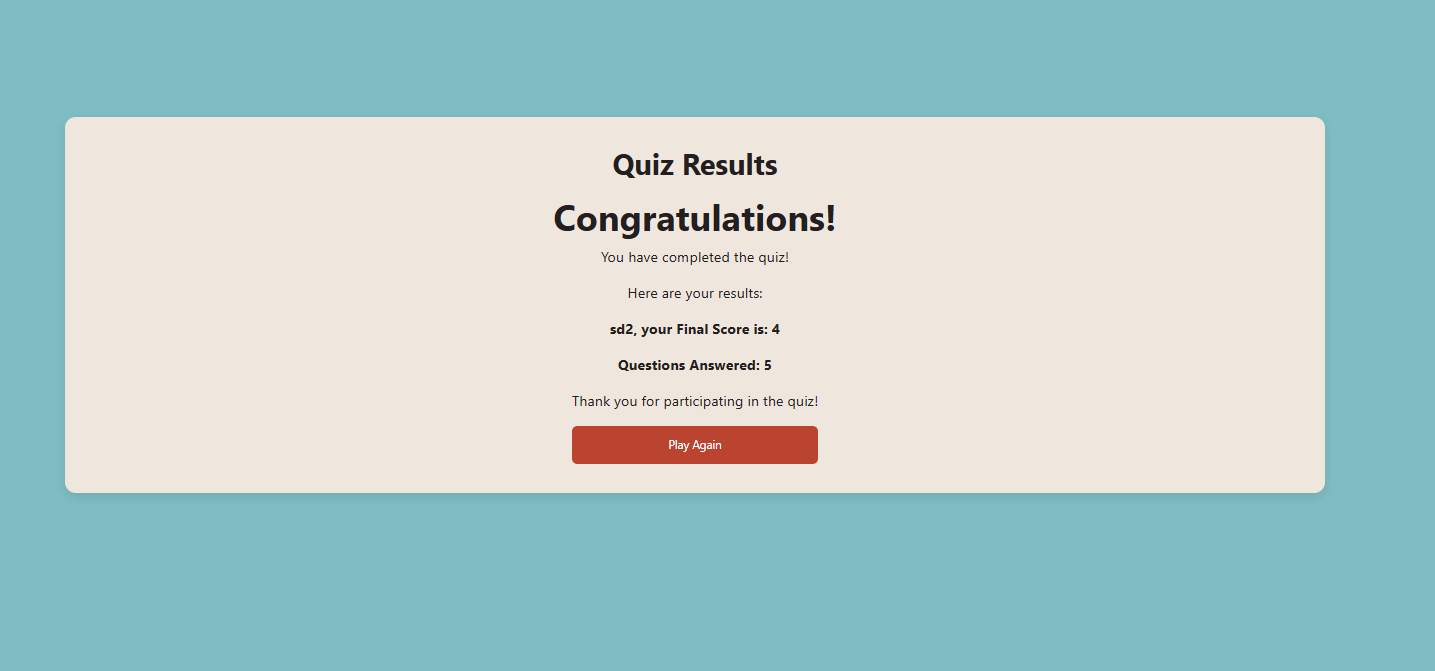
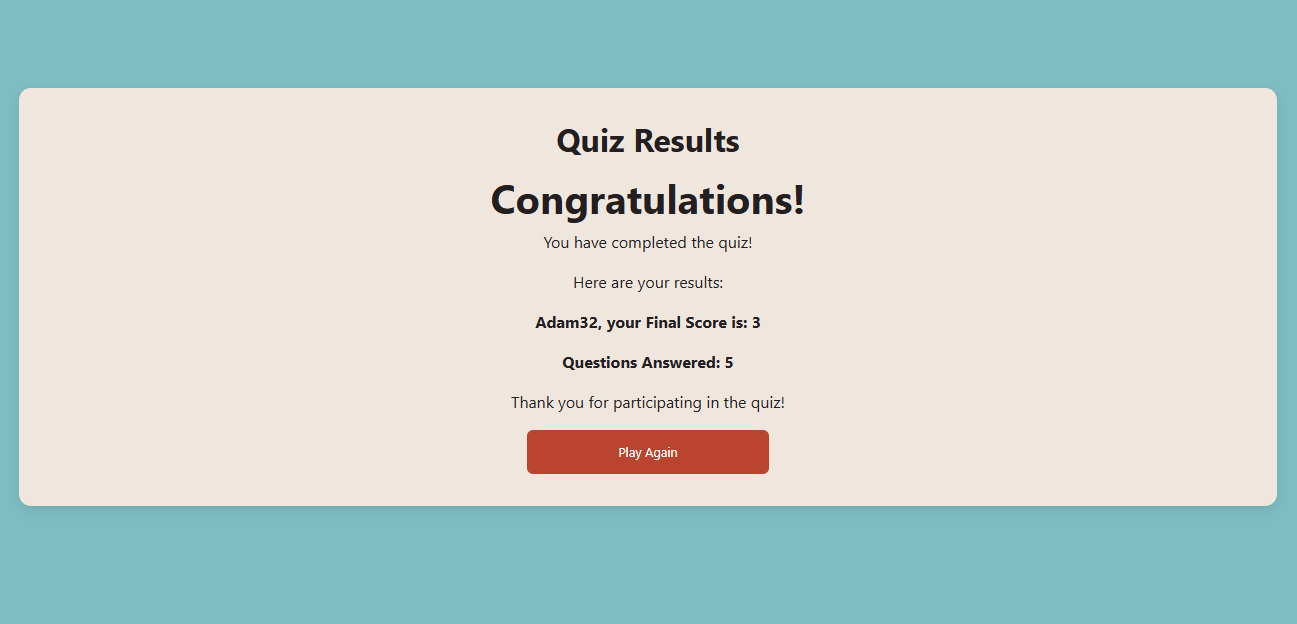
update README

Changed region(s): [[0.0, 0.1218, 0.9869, 0.8221], [0.3701, 0.274, 0.6168, 0.3958], [0.4318, 0.2131, 0.586, 0.274]]

diff --git a/README.md b/README.md
@@ -18,24 +18,100 @@ Quizia is built with a responsive design to ensure a smooth user experience acro
 - **Mobile:** Clean interface with easy-to-tap buttons, ensuring accessibility and fast play.  
 - **Consistency:** Visual identity and quiz flow remain the same on all screen sizes. 
 
-## Landing Page for First-Time Users
+## 🚀 Features
 
-The landing page welcomes new visitors with a **clean, engaging design** and encourages them to start their first quiz immediately.  
+## Navigation Bar
+
+> ![Navigation Bar](./docs/screenshots/navbar.png)
+
+Quizia features a **minimal navigation bar** to keep the interface clean and user-friendly.  
+It includes the application logo and quick access links for smooth navigation.  
 
 **Key Features:**
-- **Hero Message:** *“In the Mood for a Quiz?”* headline to grab attention.  
-- **Subtext:** A friendly prompt reminding users to test their knowledge and have fun.  
-- **Name Input:**  
-  - Users enter their username.  
-  - Validation requires at least **2 characters and 1 number**.  
-  - Example placeholder: *“Enter your username 🦉”*.  
-- **Start Button:** A large, high-contrast call-to-action labeled **“Start the Quiz!”**.  
-- **Personalization:** On return visits, the app greets users by name to build connection.  
-- **Background:** Blurred bookshelf image with a Rubik’s Cube in the foreground, symbolizing knowledge and challenge.  
-- **Navigation:** Minimal top bar with logo (“Quizia”) and quick links (*Home* / *How it works*).  
+- **Logo:** Positioned on the left side with a simple icon and the app name (*Quizia*).  
+- **Links:** *Home* and *How it works* for fast access to the main sections.  
+- **Design:** Lightweight, unobtrusive, and consistent across all pages.  
+ ## Homepage
 
-**User Flow:**
-1. New user lands on the homepage.  
-2. They enter their name and press **Start the Quiz**.  
-3. App saves the username locally (for personalized greetings).  
-4. User is taken straight into the quiz experience.  
+The homepage of **Quizia** is designed to welcome new users and guide them straight into the quiz experience.  
+
+**Key Elements:**
+- **Hero Title:** *“In the Mood for a Quiz?”* — a clear and inviting headline.  
+- **Subtitle:** Encourages users to test their knowledge and have fun.  
+- **Name Input Field:**  
+  - Requires at least **2 characters** and **1 number** for validation.  
+  - Placeholder: *“Enter your username 🦉”*.  
+- **Start Button:** A bold, high-contrast call-to-action button: *“Start the Quiz!”*.  
+- **Background:** A bookshelf image symbolizing knowledge, paired with a Rubik’s Cube to represent challenge and problem solving.  
+
+> ![Homepage](./docs/screenshots/home.png)
+
+## How It Works
+
+Quizia keeps the user journey simple and engaging, guiding players through three clear steps:
+
+- **Step 1 – Enter Your Name**  
+  Users start by entering their name. After this, they are presented with quiz options such as category, difficulty, and quiz length. Once ready, they simply click **Play!**  
+
+- **Step 2 – Answer Questions**  
+  Each quiz question offers four possible answers (or True/False mode). Only one answer is correct, making the gameplay straightforward yet challenging.  
+
+- **Step 3 – View Results & Share**  
+  Once the quiz ends, results are shown instantly. Players can then challenge friends to beat their score, encouraging replayability and social engagement.   
+
+> ![How It Works](./docs/screenshots/howitworks.png)
+## Footer
+
+Quizia includes a clean footer at the bottom of homepage to provide users with quick access to social channels and legal information.  
+
+> ![Footer](./docs/screenshots/footer.png)
+## Quiz Options
+
+Before starting the quiz, users are presented with a **Quiz Options** modal that allows them to customize their experience.  
+
+**Available Options:**
+- **Choose Your Difficulty:** Select from multiple levels or keep it as *Any Difficulty*.  
+- **Choose Your Category:** Pick a specific topic or keep it general (*Any Category*).  
+- **Choose Your Questions:** Decide between question types (e.g., Multiple Choice, True/False).  
+- **Choose Quiz Length:** Define how many questions to play (default: 5).  
+
+**Controls:**
+- **Play!** – starts the quiz immediately with the chosen options.  
+- **Close** – dismisses the modal and returns to the homepage.  
+
+> ![Quiz Options](./docs/screenshots/quiz_options.png)
+
+## Quiz Gameplay
+
+Once the quiz begins, players are presented with a clean and focused interface that makes answering questions intuitive and engaging.  
+
+**Interface Features:**
+- **Player Name:** Displayed at the top (e.g., *Challenger: Adam32*) for a personalized experience.  
+- **Score Tracker:** Shows progress and current score (e.g., *Score: 0/5*).  
+- **Category & Difficulty:** Highlighted in colored banners to remind users of their chosen settings.  
+- **Question Display:** Each question is clearly stated with four possible answers.  
+- **Answer Options:** Players select one option per question (only one is correct).  
+- **Controls:**  
+  - **Check Answer** – submit the selected option.  
+  - **End Quiz** – exit the quiz before completion if desired.  
+
+**Gameplay Flow:**
+1. A question appears along with multiple-choice answers.  
+2. The user selects an answer and clicks **Check Answer**.  
+3. The app evaluates correctness, updates the score, and moves to the next question.  
+4. This repeats until the quiz ends.  
+
+> 
+> ![Quiz Gameplay](./docs/screenshots/quiz-game.png)
+## Quiz Results
+
+After completing a quiz, players are shown a clear results page that provides instant feedback on their performance.  
+
+**Key Features:**
+- **Congratulations Message:** Positive reinforcement for completing the quiz.  
+- **Final Score:** Displays the player’s score (e.g., *Adam32, your Final Score is: 3*).  
+- **Questions Answered:** Shows how many questions were attempted out of the total (e.g., *5 Questions*).  
+- **Replay Option:** A **Play Again** button encourages replayability by letting users immediately start another quiz.  
+- **Friendly Closing Note:** Thanks the player for participating, enhancing user engagement.  
+ 
+> ![Quiz Results](./docs/screenshots/result_page.png)
